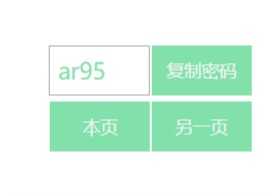
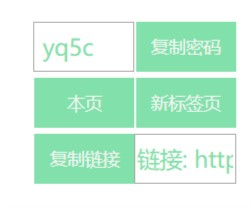
v0.35
为什么是0.35版本？我愿意

diff --git a/getBaiduLink.js b/getBaiduLink.js
@@ -1,7 +1,7 @@
 // ==UserScript==
 // @name         贵族学院链接获取者
 // @namespace    http://tampermonkey.net/
-// @version      0.32
+// @version      0.35
 // @description  自动获取百度云链接
 // @author       鱼丸粗面666
 // @match        *://adb123.com/*
@@ -18,45 +18,50 @@
     'use strict';
     var content = $("meta[content*='链接']")[0].getAttribute('content');
 
-    var bdLinkReg = new RegExp('(https|http)://pan.baidu.com/s/[-|\\w]+');
+    var bdLinkReg = new RegExp('(https|http)://pan.baidu.com/s/[\\w]+');
     var passwordReg = new RegExp(" [\\w]{4} ");
 
     var bdLink = content.match(bdLinkReg)[0];
     var password = content.match(passwordReg)[0];
+    var link_word = "链接: " + bdLink + " 提取码: " + password;
 
     // 创建新节点
-    var passwordTag = createText(password, 'fixed', '130px', '95px');
-    var copyButton = createButton('复制密码', '', null, 'fixed', '130px', '14px');
-    var _blankLink = createButton('另一页', bdLink, true, 'fixed', '85px', '14px');
-    var _selfLink = createButton('本页', bdLink, false, 'fixed', '85px', '95px');
+    var passwordText        = createText('password', password,    '130px', '95px');
+    var copyPasswordButton  = createButton('复制密码', '', 1,     '130px', '14px');
+    var _selfLink           = createButton('本页', bdLink, 3,     '85px', '95px');
+    var _blankLink          = createButton('新标签页', bdLink, 4, '85px', '14px');
+    var copyLinkButton      = createButton('复制链接', '', 2,     '40px', '95px');
+    var linkText            = createText('bdlink', link_word,     '40px', '14px');
 
 
-    $('body')[0].appendChild(passwordTag);
-    $('body')[0].appendChild(_blankLink);
+    $('body')[0].appendChild(passwordText);
+    $('body')[0].appendChild(copyPasswordButton);
     $('body')[0].appendChild(_selfLink);
-    $('body')[0].appendChild(copyButton);
+    $('body')[0].appendChild(_blankLink);
+    $('body')[0].appendChild(copyLinkButton);
+    $('body')[0].appendChild(linkText);
 
 
     /**
      * 创建 input-text 节点
+     * @param id        节点的id
      * @param value     文本框的值
-     * @param position  定位
      * @param bottom    底部距离
      * @param right     右侧距离
      * @returns {HTMLInputElement}
      */
-    function createText(value, position, bottom, right) {
+    function createText(id, value, bottom, right) {
         var text = document.createElement('input');
 
-        text.id = "password";
+        text.id = id;
         text.type = "text";
-        text.value = password;
+        text.value = value;
 
         text.style.width = "77px";  // 文本框默认宽高
         text.style.height = "34px";
         text.style.fontSize = "18px";
         text.style.color = "#82E0AA";
-        text.style.position = position;
+        text.style.position = "fixed";
         text.style.bottom = bottom;
         text.style.right = right;
 
@@ -67,31 +72,46 @@
      * 创建 input-button 节点
      * @param value     按钮的值
      * @param link      百度云链接
-     * @param target    是否在本页打开窗口
-     * @param position  定位
+     * @param target    执行的动作: 1、复制密码；2、复制链接及密码；3、本页打开；默认: 新标签页打开
      * @param bottom    底部距离
      * @param right     右侧距离
      * @returns {HTMLInputElement}
      */
-    function createButton(value, link, target, position, bottom, right) {
+    function createButton(value, link, target, bottom, right) {
         var btn = document.createElement('input');
 
         btn.type = "button";
         btn.value = value;
 
         btn.addEventListener('click', function () {
-            if (target == null) {
-                var input = document.querySelector('#password');
-                input.select();
-                if (document.execCommand('copy')) {
-                    document.execCommand('copy');
-                    console.log("复制成功");
-                }
-            }
-            else if (target) {
-                window.open(link, '_blank');
-            } else {
-                window.open(link, '_self');
+
+            switch (target) {
+                case 1:
+                    // 复制密码
+                    var passwordText = document.querySelector('#password');
+                    passwordText.select();
+                    if (document.execCommand('copy')) {
+                        document.execCommand('copy');
+                        console.log("复制密码成功");
+                    }
+                    break;
+                case 2:
+                    // 复制链接密码
+                    var linkText = document.querySelector('#bdlink');
+                    linkText.select();
+                    if (document.execCommand('copy')) {
+                        document.execCommand('copy');
+                        console.log("复制链接成功");
+                    }
+                    // window.clipboardData.setData("Text", clipboardContent);
+                    break;
+                case 3:
+                    // 本页打开链接
+                    window.open(link, '_self');
+                    break;
+                default:
+                    // 默认新标签页打开
+                    window.open(link, '_blank');
             }
         });
 
@@ -100,11 +120,10 @@
         btn.style.color = "#F5F5F5";
         btn.style.background = "#82E0AA";
         btn.style.border = "0";
-        btn.style.position = position;
+        btn.style.position = "fixed";
         btn.style.bottom = bottom;
         btn.style.right = right;
 
         return btn;
     }
-
 })();

diff --git a/README.md b/README.md
@@ -10,6 +10,7 @@
 
 ### 更新日志
 
+2018-11-24：v0.35 添加了一键复制链接密码按钮，方便粘贴到其他地方使用；由于复制方式的特殊性及能以有限，添加了一个文本框将其显示了出来 <br>
 2018-11-20：v0.32 正则表达式中加入"-"，以免匹配的链接不完整 <br>
 2018-11-19：v0.31 优化代码排版，变量命名；加入GitHub <br>
 2018-11-19：v0.3 重装系统后丢失脚本，重写脚本并加入复制密码功能 
